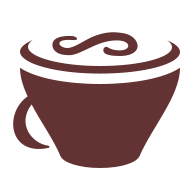
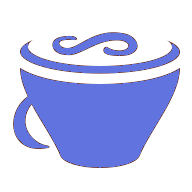
some fixes

diff --git a/js/orders.js b/js/orders.js
@@ -24,7 +24,7 @@ const pendingtab = () => {
         db.collection("orders").where("restaurantId", "==", res.uid).where("watch", "==", "Pending")
             .onSnapshot((querySnapshot) => {
                 if (querySnapshot.empty) {
-                    pending.innerHTML = `<h3 class="text-center pt-4">No PendingOrder Yet, Add Exiciting Deals For More Sells</h3>`;
+                    pending.innerHTML = `<h3 class="text-center pt-4">There are no orders to be listed yet..</h3>`;
                     loader.style.display = "none";
                 }
                 else {
@@ -33,19 +33,30 @@ const pendingtab = () => {
                     
                         var orderName=""
                         for(let item of doc.data().items){
-                            orderName+=" "+item["quantity"]+" "+item["itemName"]
-                        } 
+                            orderName+=" "+item["quantity"]+" pcs. "+item["itemName"] +","
+                        }
+                        orderName = orderName.substring(0, orderName.length - 1); 
                         bok = doc.id
-                        orders.unshift(`<div>${orderName}</div>` +
-                        `<b id="itemtext">Total: ${Math.round(doc.data().subtotalPrice*100)/100}</b>` +
-                        `<div class="pt-2 orderPerDet"><u><b class="">Order Person Detail</b></u></div>` +
-                        `<div class="row pt-2"><div class="col-md-6"><div><b>Name:</b> ${doc.data().customerName}</div>
+                        orders.unshift(`<div class="card">
+                        <div class="card-header">
+                          Order ID: ${bok}
+                        </div>
+                        <div class="card-body">
+                          <h5 class="card-title">${orderName}</h5>
+                          <b id="itemtext">Total: ${Math.round(doc.data().subtotalPrice*100)/100}</b>
+                          <div class="pt-2 orderPerDet"><u><b class="">Order Person Detail</b></u></div>
+                          <div class="row pt-2"><div class="col-md-6"><div><b>Name:</b> ${doc.data().customerName}</div>
                         <div><b>Phone #:</b> ${doc.data().customerPhone}</div>
                         <b>Time: </b>${doc.data().time}</div>
                         <div><b>Payment Method:</b> ${doc.data().paymentMethod}</div
                         ><div><button class="btn btn-success no-radius" onclick="accept('${bok}')">Accept</button> 
-                        <button class="btn btn-danger no-radius" onclick="reject('${bok}')">Reject</button></div></div></div>` +
-                        `<hr>`);
+                        <button class="btn btn-danger no-radius" onclick="reject('${bok}')">Reject</button></div></div></div>
+                         
+                        </div>
+                      </div>`
+                        
+                        
+                        );
                     });
                     pending.innerHTML = orders.join(" ")
                     loader.style.display = "none"

diff --git a/css/navbar.css b/css/navbar.css
@@ -23,7 +23,7 @@ body {
 
 .nav > .nav-header > .nav-title {
   display: inline-block;
-  color: #6b2c2cfd;
+  color: #6173DF;
   padding: 15px 15px 15px 5px;
 }
 
@@ -52,7 +52,7 @@ body {
 
 .nav > .nav-links > a:hover {
   background-color: #ffecfc;
-  color: #633333;
+  color: #6173DF;
 }
 
 .nav > #nav-check {
@@ -62,7 +62,7 @@ body {
 .nav-icon{
     font-size: 20px;
     padding: 0px 10px 0px 0px !important;
-    color: #633333;
+    color: #6173DF;
     font-weight: bold;
   text-align: center;
 
@@ -85,7 +85,7 @@ body {
 }
 
 .nav-bottom .add-button {
-  background-color: #633333;
+  background-color: #6173DF;
   padding: 10px;
   cursor: pointer;
   font-size: 15px;
@@ -127,7 +127,7 @@ body {
 
 .dropdown-content-nav a:hover {
   background-color: rgba(245, 245, 245, 0.817);
-  color: #633333;
+  color: #6173DF;
 }
 
 .dropdown-nav:hover .dropdown-content-nav {

diff --git a/css/register.css b/css/register.css
@@ -24,8 +24,8 @@ body {
 
 .button-style{
   width: 100% !important;
-  background: #633333 !important;
-  border: #633333 !important;
+  background: #6173DF !important;
+  border: #6173DF !important;
   height: 46px;
   font-size: 14px;
   letter-spacing: 1px;
@@ -34,17 +34,17 @@ body {
   transition: all .2s cubic-bezier(.25,.46,.45,.94);
 }
 .button-style:hover{
-  background: #8a4949 !important;
-  border: #633333 !important;
+  background: #919ee6 !important;
+  border: #6173DF !important;
 }
 
 .link-style{
-  color: #633333 !important;
+  color: #6173DF !important;
   text-decoration: none;
 }
 
 .link-style:hover{
-  color: #8a4949;
+  color: #919ee6 ;
 }
 
 

diff --git a/css/loader.css b/css/loader.css
@@ -21,7 +21,7 @@ body{
     width:250px;
     height:250px;
     border-radius:100%;
-    background: #633333;
+    background: #107CF1;
     -webkit-animation:loader3 1.5s linear infinite;
     animation:loader3 1.5s linear infinite;
  }

diff --git a/loader.html b/loader.html
@@ -12,7 +12,7 @@
 <body>
     <div>
         <div class="loader3">
-            <h1>"Hi"</h1>
+            <img width="300px" src="./img/fincan.png" alt="">
             <span></span>
             <span></span>
 

diff --git a/css/restaurantDash.css b/css/restaurantDash.css
@@ -119,7 +119,7 @@ body {
 
 .dropdown-content-nav a:hover {
   background-color: rgba(245, 245, 245, 0.817);
-  color: #633333;
+  color: #6173DF;
 }
 
 .dropdown-nav:hover .dropdown-content-nav {

diff --git a/css/orders.css b/css/orders.css
@@ -113,7 +113,7 @@ body {
   }
   
   .orderPerDet {
-    color: #da397c;
+    color: red;
     font-size: 20px;
   }
   
